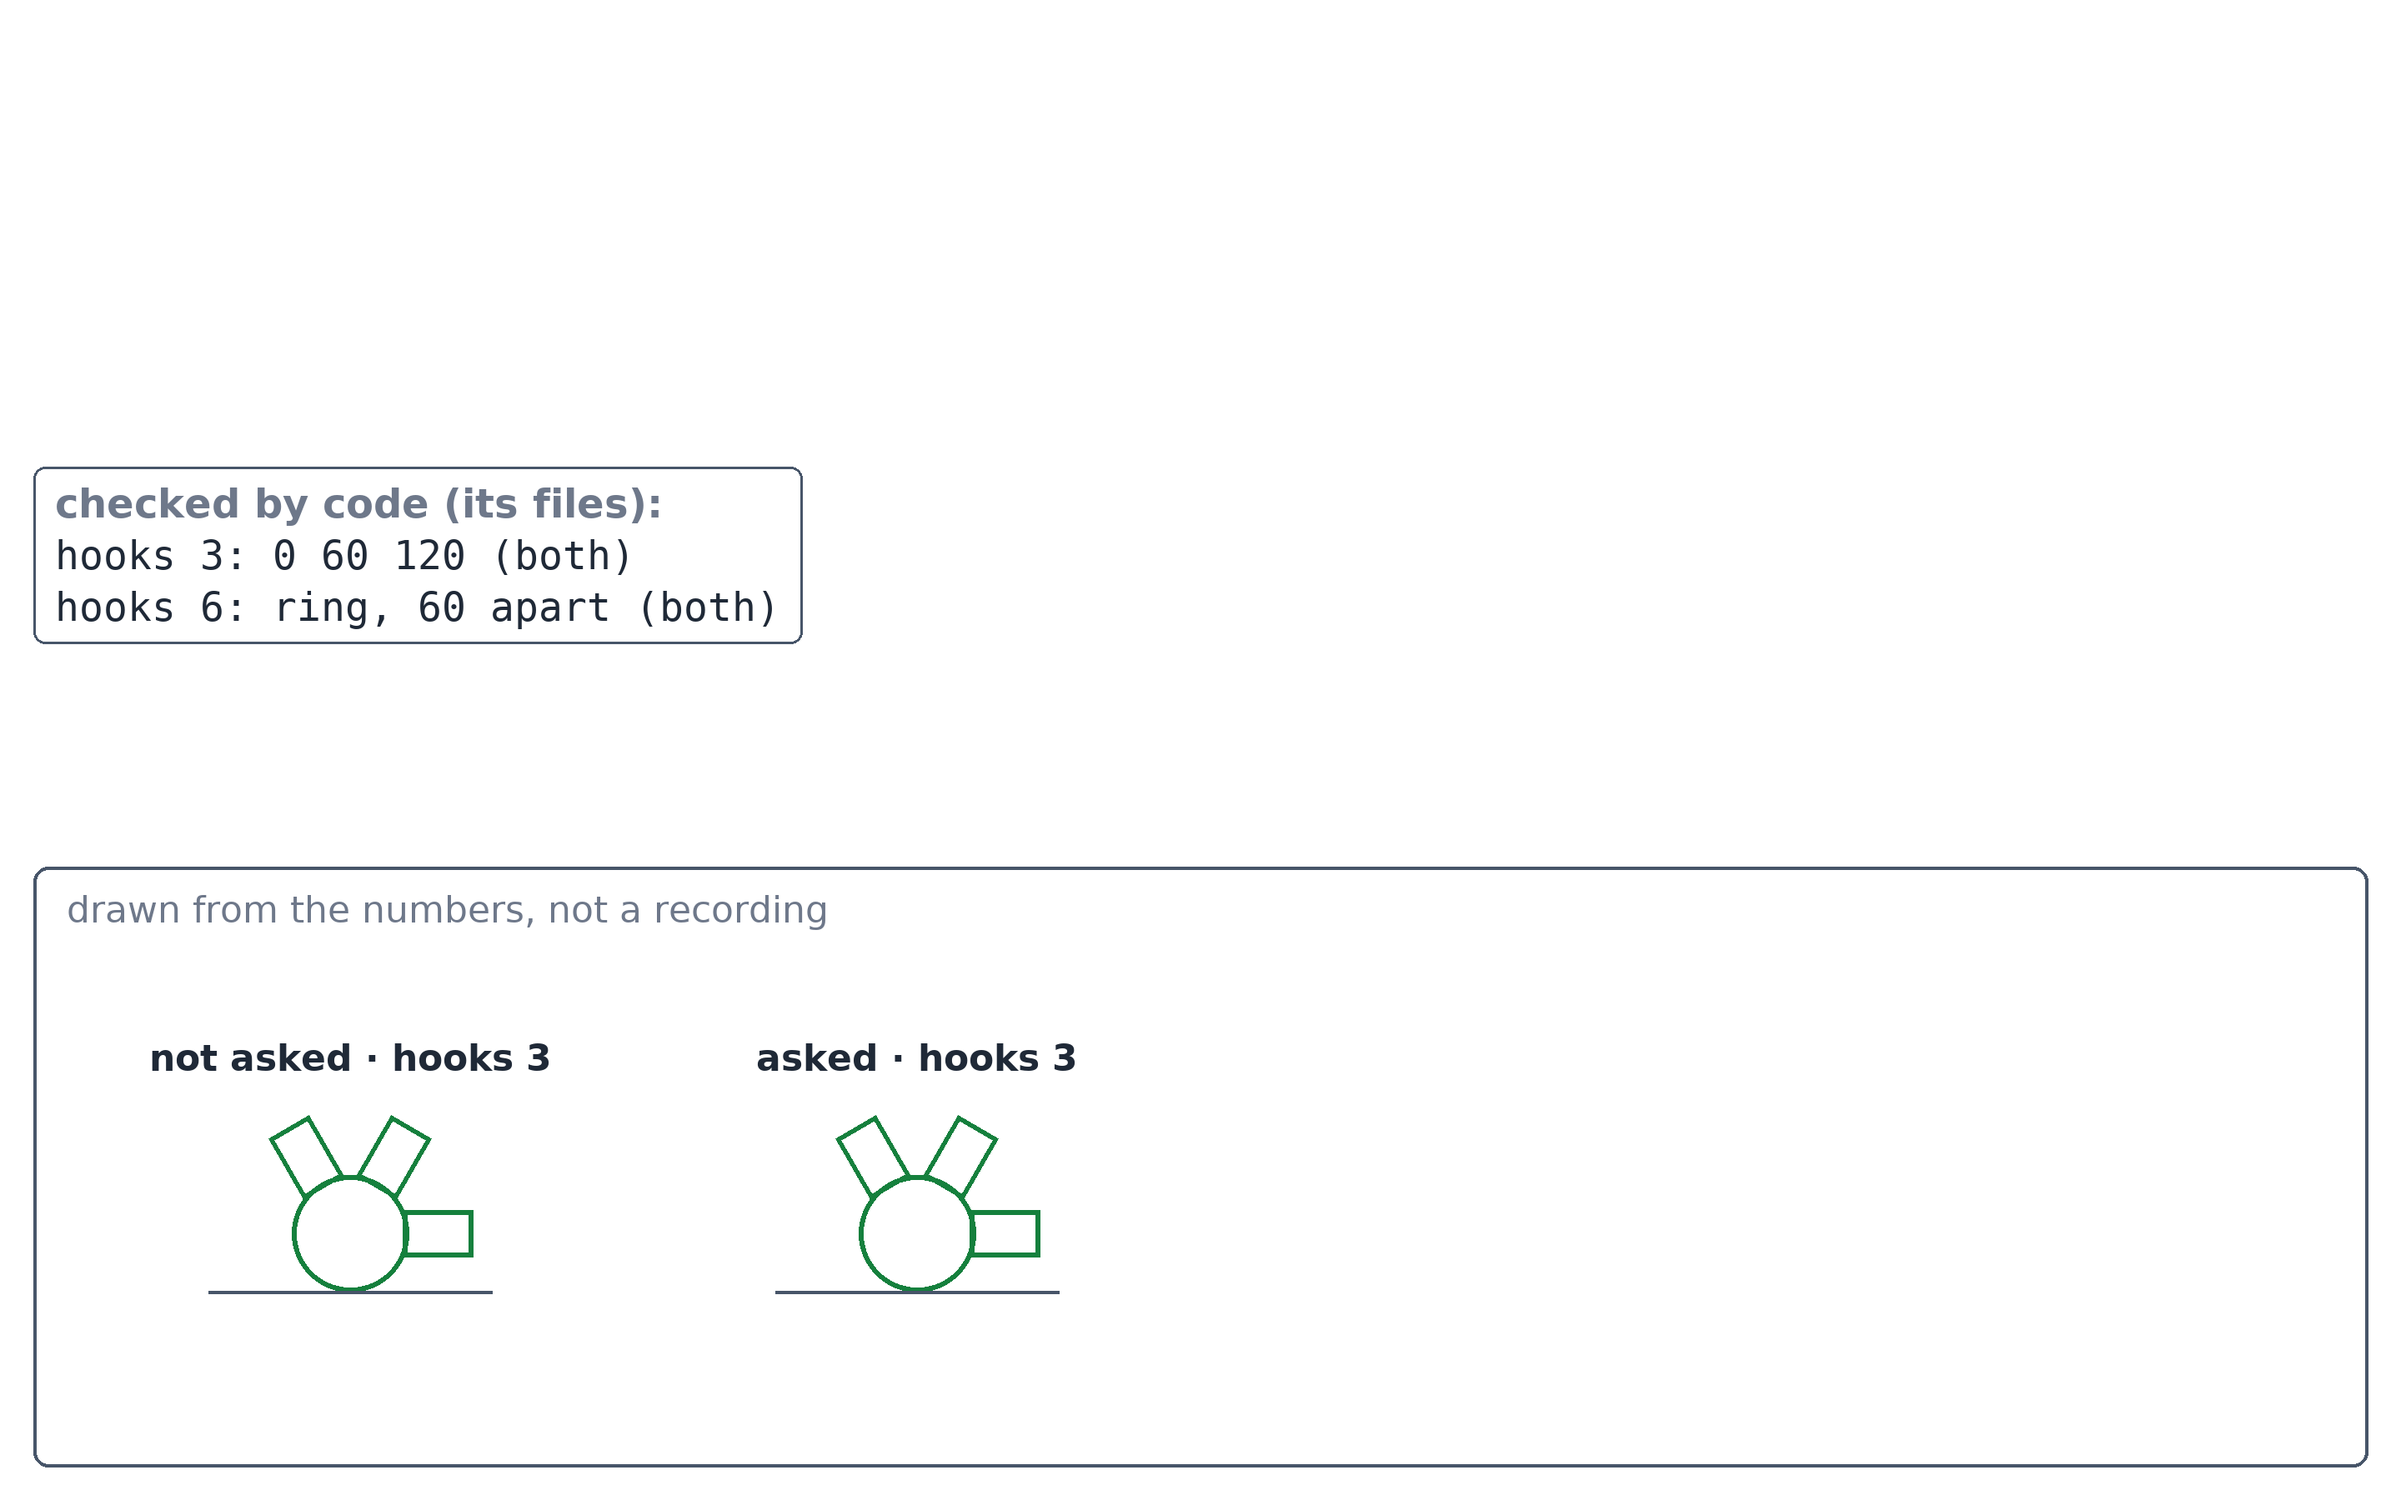
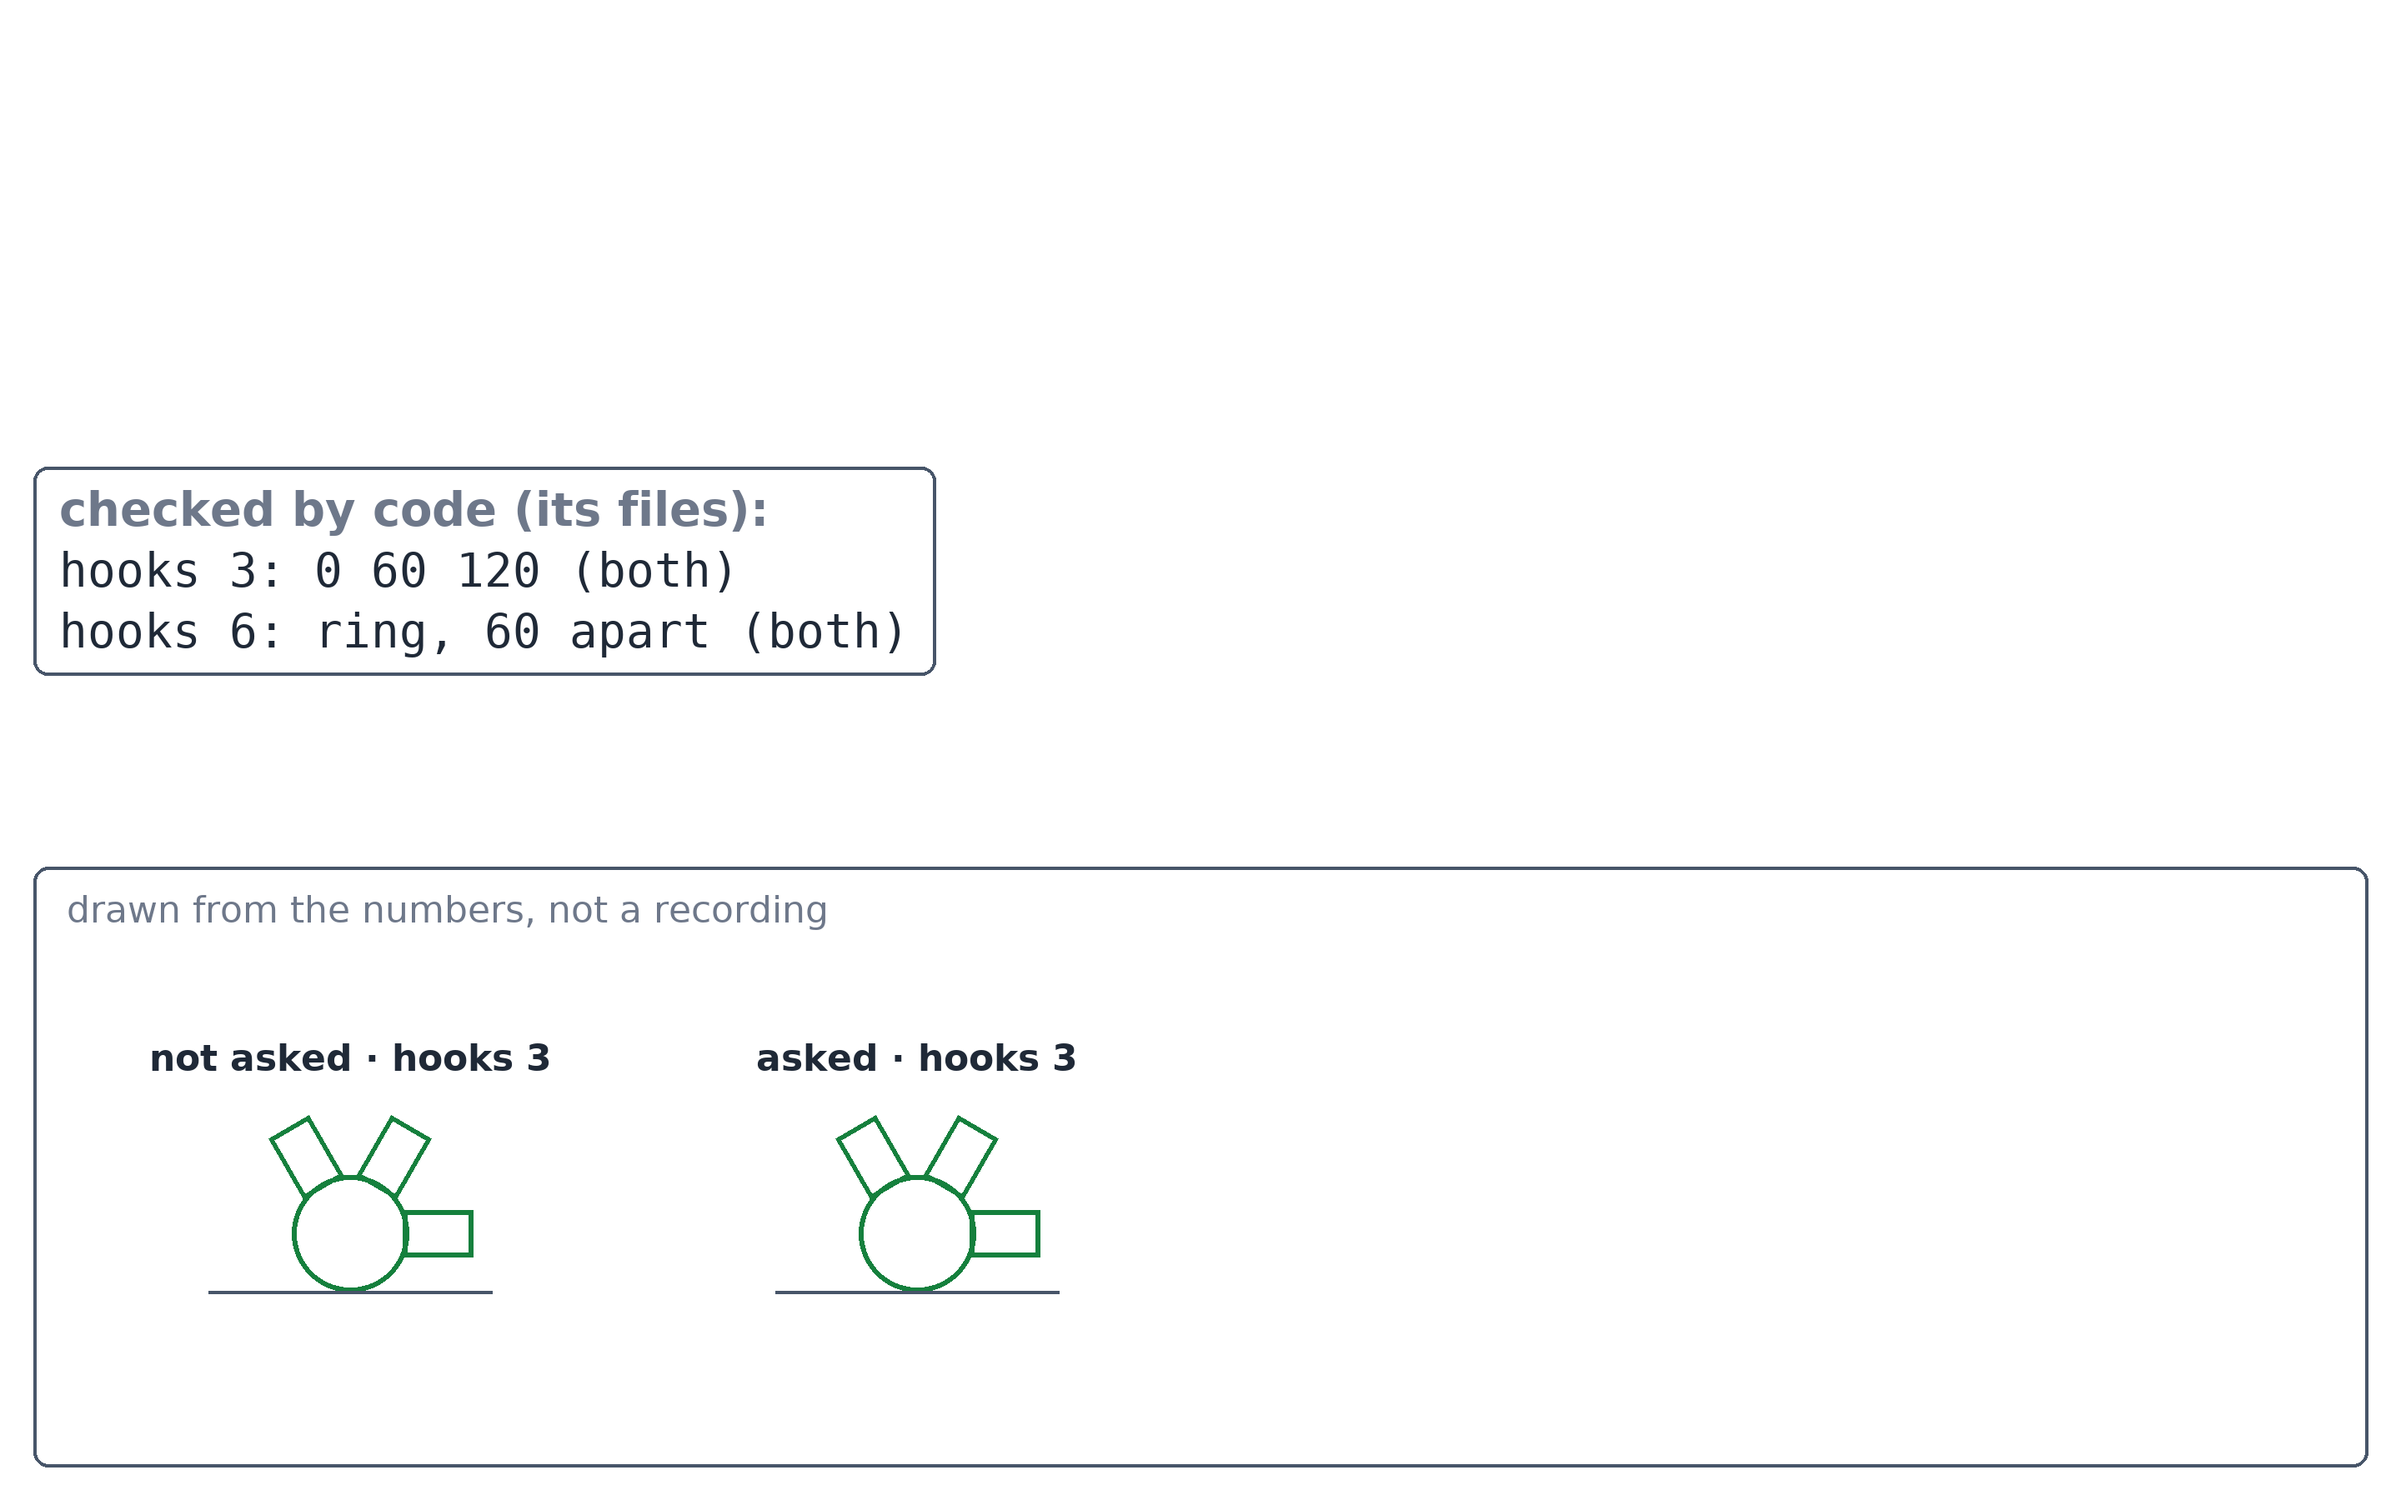
fc12 cut 2 (WATCH-fc12-cut1): card-fix-180 (4 hooks, 3 gaps: 3 x 60 = 180) for F7's opening; why-card 360 lines at 60/72 px + bigger mini ring; proof code box 56 px. Test red first, then 10 pass.
Claude-Session: https://claude.ai/code/session_01BKaTygt8SZ8KFbKC6u8tGA

Changed region(s): [[0.0, 0.3111, 0.375, 0.4356]]

diff --git a/video/draw_fc12.py b/video/draw_fc12.py
@@ -4,7 +4,7 @@ draw_fx20.py / draw_fc10.py helpers: light, 2560 x 1440, clean line art (the clo
 and earlier steps turn grey, card lines 44 columns, code-panel lines 32 columns (Claude's quoted lines 44, re-wrapped
 at word gaps, words unchanged from runs/*/reply.txt), no percent sign, never "tooltip", outlines thin, never filled.
 Every number is NUMBERS.json's (out/fc12) or a lesson / typed / clock number (tests/test_draw_fc12.py).
-  full frame:  card-clock-1..4 (F2), card-why-1..6 (F6), card-end (F15); Short 1080 x 1080: card-short-why-1..3 (S1)
+  full frame:  card-clock-1..4 (F2), card-why-1..6 (F6), card-fix-180 (F7, cut 2), card-end (F15); Short 1080 x 1080: card-short-why-1..3 (S1)
   source overlays (RGBA 2880 x 1800, burnt in by mcp-canvas primers/footage-fc12.py):
       ov-wall-T / -F   the drawn wall line (y = -25 mm) on take T's / F's top view; T: the 4th hook ringed
       ov-sum           F4: "6 x 60 = 360" / "4 x 60 = 240 ?"
@@ -148,18 +148,39 @@ def card_why(step):
         text(d, (1380, 480), '4 hooks, 3 gaps', 56, c3)
     if step >= 4:
         text(d, (1380, 590), '240 ÷ 3 = 80', 72, ORANGE if step == 4 else DONE, path=MONO)
-    if step >= 5:
+    if step >= 5:      # cut 2 (WATCH nice 4): these lines match the 240 / 3 line, the mini ring is bigger
         c5 = INK if step == 5 else DONE
-        text(d, (1380, 730), '6 hooks, first to last: 360 ÷ 5 = 72', 48, c5)
-        text(d, (1380, 805), 'hook 6 lands on hook 1', 48, c5)
-        sc, sr = (1620, 1110), 170
-        d.ellipse((sc[0] - sr, sc[1] - sr, sc[0] + sr, sc[1] + sr), outline=DONE, width=4)
+        text(d, (1380, 710), '6 hooks, first to last:', 60, c5)
+        text(d, (1380, 790), '360 ÷ 5 = 72', 72, c5, path=MONO)
+        text(d, (1380, 890), 'hook 6 lands on hook 1', 60, c5)
+        sc, sr = (1600, 1170), 190
+        d.ellipse((sc[0] - sr, sc[1] - sr, sc[0] + sr, sc[1] + sr), outline=DONE, width=5)
         for k in range(6):
-            dot(d, sc, sr, 72 * k, ORANGE if (k == 5 and step == 5) else GREY, rad=18 if k < 5 else 30, ghost=True)
+            dot(d, sc, sr, 72 * k, ORANGE if (k == 5 and step == 5) else GREY, rad=22 if k < 5 else 36, ghost=True)
     if step >= 6:
-        text(d, (1860, 1060), 'so at 360:', 56, GREEN)
-        text(d, (1860, 1140), '360 ÷ 6 = 60', 64, GREEN, path=MONO)
+        text(d, (1860, 1080), 'so at 360:', 64, GREEN)
+        text(d, (1860, 1170), '360 ÷ 6 = 60', 72, GREEN, path=MONO)
     save(im, f'card-why-{step}.png')
+
+
+def card_fix180():
+    """Cut 2 (WATCH must 2): F7's opening clause ("Extent needs 180: three gaps of 60. Typing that works today, but
+    every new count means a new sum") on the clock, in place of the broken 240 top view."""
+    im, d = canvas()
+    header(d, 'Extent for 4 hooks: 180')
+    c, r = (700, 800), 440
+    face(d, c, r, DONE)
+    arc(d, c, r + 40, 0, 180, GREEN, 14)
+    for a in (0, 60, 120, 180):
+        dot(d, c, r + 40, a, INK)
+    for a in (0, 60, 120):
+        arc(d, c, r - 10, a + 6, a + 54, BLUE, 8)
+    text(d, (1380, 300), 'Length 180: 12 to 6', 60, INK)
+    text(d, (1380, 400), '4 hooks, 3 gaps', 60, BLUE)
+    text(d, (1380, 500), '3 × 60 = 180', 80, GREEN, path=MONO)
+    text(d, (1380, 700), 'typing 180 works today', 60, INK)
+    text(d, (1380, 790), 'every new count: a new sum', 56, ORANGE)
+    save(im, 'card-fix-180.png')
 
 
 def card_short_why(step):
@@ -285,7 +306,7 @@ def ov_proof(step):
     g6 = set(RUNS['A1-2']['at6']['gaps'])
     assert len(g6) == 1
     code_box(d, 40, 560, [f'hooks 3: {angles(a3)} (both)', f'hooks 6: ring, {n0(g6.pop())} apart (both)'],
-             'checked by code (its files):', 48, 0.8)
+             'checked by code (its files):', 56, 0.8)      # cut 2 (WATCH nice 6): was 48
     save(im, f'ov-proof-{step}.png')
     PANEL_NAMES.append(f'ov-proof-{step}.png')
 
@@ -336,6 +357,7 @@ def main():
         card_clock(s)
     for s in range(1, 7):
         card_why(s)
+    card_fix180()
     for s in range(1, 4):
         card_short_why(s)
     card_end()

diff --git a/tests/test_draw_fc12.py b/tests/test_draw_fc12.py
@@ -137,3 +137,13 @@ def test_panels_clear_of_the_model(run):
         assert alpha_box(n, (0, 0, 2130, 1800)) == 0 and alpha_box(n, (0, 0, 2880, 780)) == 0, n
     for n in ('ov-cc-A1.png', 'ov-cc-B1.png'):
         assert alpha_box(n, (0, 0, 1165, 1800)) == 0, n
+
+
+# ---- cut 2 (WATCH-fc12-cut1, 17 Nov) ----
+def test_c2_fix_card_and_bigger_why_lines(run):
+    assert os.path.exists(os.path.join(d.OUT, 'card-fix-180.png'))
+    t = texts(run, 'card-fix-180.png')
+    assert '4 hooks, 3 gaps' in t and '3 × 60 = 180' in t
+    sz = dict(run['card-why-5.png'])        # nice 4: the 360 / 5 lines read on a phone (the 240 / 3 line is 72)
+    assert sz.get('360 ÷ 5 = 72', 0) >= 72 and sz.get('hook 6 lands on hook 1', 0) >= 60
+    assert dict(run['card-why-6.png']).get('360 ÷ 6 = 60', 0) >= 72
